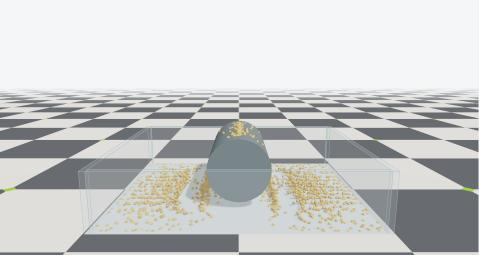
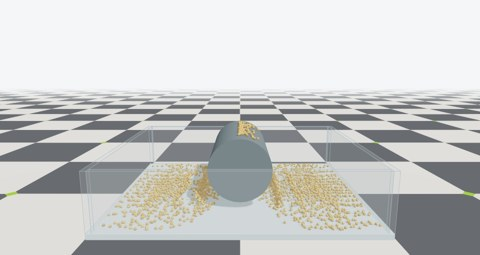
Update interactive demos and simplify publishing (#8559)
## Description

Update the gallery to 17 demos with activity/physics filters, pretrained
VBD manipulation, Franka Policy/Manual control, corrected stacking
contacts, and finer MPM grains. Add contextual documentation links and
refreshed thumbnails.

Serve the demos at `/demos/interactive/`. Reuse one [official
release](https://github.com/isaac-sim/IsaacLab/releases/tag/interactive-demos)
and [publishing
branch](https://github.com/maxkra15/IsaacLab/tree/interactive-releases);
each docs update pins a commit-named archive and checksum. Newton CPU
WebAssembly advances physics, Three.js renders it, and the browser
evaluates pretrained policy weights. Generated bundles stay outside
`develop`.

## Play the demos

[Gallery
preview](https://maxkra15.github.io/isaaclab-browser-demos/lab/?v=grains-v1)

- **Tuning:**
[Stiffness](https://maxkra15.github.io/isaaclab-browser-demos/lab/?demo=stiffness&v=grains-v1)
· [Cloth
bending](https://maxkra15.github.io/isaaclab-browser-demos/lab/?demo=cloth_bending&v=grains-v1)
·
[Friction](https://maxkra15.github.io/isaaclab-browser-demos/lab/?demo=rigid_friction&v=grains-v1)
·
[PD](https://maxkra15.github.io/isaaclab-browser-demos/lab/?demo=joint_pd&v=grains-v1)
·
[MPM](https://maxkra15.github.io/isaaclab-browser-demos/lab/?demo=mpm&v=grains-v1)
·
[Cable](https://maxkra15.github.io/isaaclab-browser-demos/lab/?demo=cable_bending&v=grains-v1)
·
[Dominoes](https://maxkra15.github.io/isaaclab-browser-demos/lab/?demo=dominoes&v=grains-v1)
[…]

diff --git a/docs/source/setup/interactive_demos.rst b/docs/source/setup/interactive_demos.rst
@@ -13,20 +13,21 @@ one self-contained Newton simulation with camera controls, pause, and reset.
 The simulation runs locally on the CPU through WebAssembly; no Isaac Lab
 installation or remote simulation server is needed.
 
-Open the `hosted gallery <../../../demos/v3/>`_ to browse all demos.
+Open the `hosted gallery <../../../demos/interactive/>`_ to filter all 17 demos by
+activity and physics: rigid bodies, VBD, or MPM.
 
 These compact scenes illustrate individual effects. Use the full Isaac Lab
 examples and tasks for evaluation, training, and measured comparisons.
 
-Solver and actuator tuning
---------------------------
+Tuning
+------
 
 .. grid:: 1 2 3 3
    :gutter: 3
 
    .. grid-item-card:: VBD material stiffness
       :img-top: ../_static/browser_demos/previews/stiffness.jpg
-      :link: ../../../demos/v1/?demo=stiffness
+      :link: ../../../demos/interactive/?demo=stiffness
 
       .. _interactive-demo-stiffness:
 
@@ -35,7 +36,7 @@ Solver and actuator tuning
 
    .. grid-item-card:: VBD cloth bending
       :img-top: ../_static/browser_demos/previews/cloth_bending.jpg
-      :link: ../../../demos/v1/?demo=cloth_bending
+      :link: ../../../demos/interactive/?demo=cloth_bending
 
       .. _interactive-demo-cloth-bending:
 
@@ -44,7 +45,7 @@ Solver and actuator tuning
 
    .. grid-item-card:: MJWarp sliding friction
       :img-top: ../_static/browser_demos/previews/rigid_friction.jpg
-      :link: ../../../demos/v1/?demo=rigid_friction
+      :link: ../../../demos/interactive/?demo=rigid_friction
 
       .. _interactive-demo-rigid-friction:
 
@@ -53,7 +54,7 @@ Solver and actuator tuning
 
    .. grid-item-card:: Joint PD tuning
       :img-top: ../_static/browser_demos/previews/joint_pd.jpg
-      :link: ../../../demos/v1/?demo=joint_pd
+      :link: ../../../demos/interactive/?demo=joint_pd
 
       .. _interactive-demo-joint-pd:
 
@@ -62,27 +63,49 @@ Solver and actuator tuning
 
    .. grid-item-card:: MPM material response
       :img-top: ../_static/browser_demos/previews/mpm.jpg
-      :link: ../../../demos/v1/?demo=mpm
+      :link: ../../../demos/interactive/?demo=mpm
 
       .. _interactive-demo-mpm:
 
-      Drop 1,728 particles onto a cylinder inside a catch tub. Try sand,
+      Drop 2,744 fine particles onto a cylinder inside a catch tub. Try sand,
       snow, clay, and water references, or tune individual parameters.
 
+   .. grid-item-card:: VBD cable bending
+      :img-top: ../_static/browser_demos/previews/cable_bending.jpg
+      :link: ../../../demos/interactive/?demo=cable_bending
+
+      .. _interactive-demo-cable-bending:
+
+      Bend a clamped 0.45 m, ten-segment cable. Adjust bending stiffness
+      and downward tip load, then reset to compare the response.
+
+   .. grid-item-card:: Domino cascade
+      :img-top: ../_static/browser_demos/previews/dominoes.jpg
+      :link: ../../../demos/interactive/?demo=dominoes
+
+      .. _interactive-demo-dominoes:
+
+      Topple 24 slabs with a short push. Change friction and replay the
+      cascade using Newton XPBD and the Isaac Lab checker ground.
+
 For the corresponding native settings, see :ref:`newton-using-vbd`,
-:ref:`mjwarp-solver-tuning`, :ref:`newton-tuning-mpm`, and :ref:`overview-actuators`.
+:ref:`mjwarp-solver-tuning`, :ref:`newton-tuning-mpm`, :ref:`overview-actuators`,
+and :ref:`deformables`.
 The MPM presets are qualitative references on a coarse grid, rather than
 calibrated materials. Material changes apply on reset with fresh plastic history.
 
-Policy control
---------------
+The cable and domino scenes isolate small comparisons from the native examples;
+use the full examples for larger scenes and measured comparisons.
+
+Policy inference
+----------------
 
 .. grid:: 1 2 3 3
    :gutter: 3
 
    .. grid-item-card:: Cartpole balancing
       :img-top: ../_static/browser_demos/previews/cartpole.jpg
-      :link: ../../../demos/v1/?demo=cartpole
+      :link: ../../../demos/interactive/?demo=cartpole
 
       .. _interactive-demo-cartpole:
 
@@ -91,7 +114,7 @@ Policy control
 
    .. grid-item-card:: G1 velocity control
       :img-top: ../_static/browser_demos/previews/g1.jpg
-      :link: ../../../demos/v3/?demo=g1
+      :link: ../../../demos/interactive/?demo=g1
 
       .. _interactive-demo-g1:
 
@@ -100,7 +123,7 @@ Policy control
 
    .. grid-item-card:: ANYmal-D velocity control
       :img-top: ../_static/browser_demos/previews/anymal.jpg
-      :link: ../../../demos/v3/?demo=anymal
+      :link: ../../../demos/interactive/?demo=anymal
 
       .. _interactive-demo-anymal:
 
@@ -109,32 +132,16 @@ Policy control
 
    .. grid-item-card:: MicroDuck walking
       :img-top: ../_static/browser_demos/previews/microduck.jpg
-      :link: ../../../demos/v3/?demo=microduck
+      :link: ../../../demos/interactive/?demo=microduck
 
       .. _interactive-demo-microduck:
 
-      Hold the viewport joysticks to walk through a miniature courtyard.
-      Drag the robot to apply a 2 N push; release to let the policy recover.
-
-Cartpole uses the published ``Isaac-Cartpole-Direct`` Newton policy. G1 uses
-the external 29-joint WBC-AGILE ``Velocity-G1-v0`` policy. ANYmal-D uses the
-``Isaac-Velocity-Flat-AnymalD`` RSL-RL checkpoint with a tuned PD drive in
-place of the native task's LSTM actuator. Its motion can differ from a full
-task run. MicroDuck uses Pollen Robotics' published v5 ``velstand`` policy
-and native BAM servos from `task PR #8270 <https://github.com/isaac-sim/IsaacLab/pull/8270>`_.
-Its courtyard is decorative scenery over flat ground; playback uses one
-captured reset with selected observation randomization disabled.
-See :ref:`reinforcement-learning` for native playback and training.
-
-Manipulation
-------------
-
-.. grid:: 1 2 3 3
-   :gutter: 3
+      Walk in a bounded warehouse. Drag sticks to their edges to lock commands;
+      pull back or press Escape to stop. Drag the robot for a 2 N push.
 
    .. grid-item-card:: Franka reach
       :img-top: ../_static/browser_demos/previews/franka_reach.jpg
-      :link: ../../../demos/v1/?demo=franka_reach
+      :link: ../../../demos/interactive/?demo=franka_reach
 
       .. _interactive-demo-franka-reach:
 
@@ -143,7 +150,7 @@ Manipulation
 
    .. grid-item-card:: Franka lift
       :img-top: ../_static/browser_demos/previews/franka_lift.jpg
-      :link: ../../../demos/v1/?demo=franka_lift
+      :link: ../../../demos/interactive/?demo=franka_lift
 
       .. _interactive-demo-franka-lift:
 
@@ -152,33 +159,97 @@ Manipulation
 
    .. grid-item-card:: Franka drawer opening
       :img-top: ../_static/browser_demos/previews/franka_drawer.jpg
-      :link: ../../../demos/v1/?demo=franka_drawer
+      :link: ../../../demos/interactive/?demo=franka_drawer
 
       .. _interactive-demo-franka-drawer:
 
       Play, pause, and reset a pretrained drawer-opening policy.
       Orbit the camera to inspect the grasp and drawer motion.
 
-These three demos use published Newton RSL-RL checkpoints for ``Isaac-Reach-Franka``
-(``joint_pos``), ``Isaac-Lift-Franka`` (``cube``), and ``Isaac-Open-Drawer-Franka``.
-Playback repeats one captured reset every eight seconds; Python episode and
-reset managers are not exported. Browse their full task options in
-:ref:`environment-browser`.
+   .. grid-item-card:: Franka soft-body policy
+      :img-top: ../_static/browser_demos/previews/franka_soft.jpg
+      :link: ../../../demos/interactive/?demo=franka_soft
+
+      .. _interactive-demo-franka-soft:
+
+      Lift a flexible beam with a pretrained VBD policy. Change its target
+      height or stiffness, or pull the beam to test recovery.
+
+   .. grid-item-card:: Franka cloth policy
+      :img-top: ../_static/browser_demos/previews/franka_cloth.jpg
+      :link: ../../../demos/interactive/?demo=franka_cloth
+
+      .. _interactive-demo-franka-cloth:
+
+      Watch a pretrained VBD policy grasp a cloth sheet through contact.
+      Adjust bending stiffness or target height, or pull the cloth.
+
+Cartpole uses the published ``Isaac-Cartpole-Direct`` Newton policy. G1 uses
+the external WBC-AGILE ``Velocity-G1-v0`` policy. ANYmal-D uses the
+``Isaac-Velocity-Flat-AnymalD`` RSL-RL checkpoint with a tuned PD drive in
+place of the native task's LSTM actuator, so its motion can differ from a full task run.
+
+MicroDuck uses Pollen Robotics' published v5 ``velstand`` policy and native BAM servos
+from `task PR #8270 <https://github.com/isaac-sim/IsaacLab/pull/8270>`_. Its warehouse
+adds 12 movable props with nominal mass and inertia; other fixtures remain fixed.
+Turning from rest includes a visible 0.25 m/s forward command. Playback uses one
+captured reset with selected observation randomization disabled.
+
+The five Franka policies use published Newton RSL-RL checkpoints for
+``Isaac-Reach-Franka`` (``joint_pos``), ``Isaac-Lift-Franka`` (``cube``),
+``Isaac-Open-Drawer-Franka``, ``Isaac-Lift-Soft-Franka``, and ``Isaac-Lift-Cloth-Franka``.
+The VBD scenes use compact simulation meshes; changing their material tests policy
+generalization. Drawer opening retains the captured task's legacy absolute-action
+controller and clears its initial overlap through a short simulated retreat;
+the current task uses a different EMA controller.
+
+Franka policy playback repeats one captured reset every eight seconds for reach,
+lift, and drawer opening, or five seconds for soft-body and cloth lifting.
+Python episode and reset managers are not exported. See :ref:`reinforcement-learning`
+and :ref:`environment-browser` for native playback, training, and full task options.
+
+Scripted scenes
+---------------
+
+.. grid:: 1 2 3 3
+   :gutter: 3
+
+   .. grid-item-card:: Franka cube stacking
+      :img-top: ../_static/browser_demos/previews/franka_stack.jpg
+      :link: ../../../demos/interactive/?demo=franka_stack
+
+      .. _interactive-demo-franka-stack:
+
+      Stack two 50 mm cubes with a scripted IK controller and simulated
+      gripper contacts, or take over the arm in Manual mode.
+
+Manual Franka control
+---------------------
+
+All six Franka demos offer **Manual** alongside **Policy** or **Scripted**.
+Click the viewport, then use **WASD / arrow keys** to move relative to the camera,
+**R/F** for height, **Q/E** for yaw, and **G** for the gripper where available.
+Hold **Shift** for finer movement; **Escape** stops. Touch screens show a movement pad.
+Inverse kinematics supplies actuator targets; the same simulation handles contacts.
+
+Reset keeps the selected mode. Returning to Policy hands over the current state;
+selecting Scripted restarts the stacking sequence. Manual mode continues until reset.
 
 About these demos
 -----------------
 
 The demos are published alongside Isaac Lab documentation on GitHub Pages. The site serves
-versioned simulation bundles, policies, geometry, and third-party license notices.
+simulation bundles, policies, geometry, and third-party license notices.
 Newton's captured Warp kernels advance the physics, Three.js displays the state,
 and a shared JavaScript evaluator runs the policy networks in the browser.
 The documentation gallery contains small thumbnails and links to these pages.
 
-The exporters and demo application are maintained separately from Isaac Lab.
-The docs deployment downloads a versioned archive from Isaac Lab GitHub releases
-and verifies its checksum before publishing; compiled assets are kept outside the source tree.
+The exporters and prebuilt demo application are distributed through Isaac Lab's
+`interactive-demos release <https://github.com/isaac-sim/IsaacLab/releases/tag/interactive-demos>`_.
+The docs deployment downloads a reviewed, commit-named archive and verifies its checksum
+before publishing. Compiled assets stay outside the development source tree.
 The public `reference PR #7974 <https://github.com/isaac-sim/IsaacLab/pull/7974>`_
-records the exporters, shared viewer, and scene adaptations.
+records the original implementation and scene adaptations.
 Rebuilding requires the pinned internal Newton Web compiler and Emscripten.
-The locomotion demos use the version 3 viewer with controls inside the viewport.
-Other demos retain version 1 links. Each archive preserves earlier version directories.
+The gallery uses a stable ``demos/interactive/`` URL. Earlier published version URLs
+remain available.

diff --git a/docs/source/refs/contributing.rst b/docs/source/refs/contributing.rst
@@ -138,11 +138,15 @@ For documentation media, only small ``.jpg`` files should be committed directly 
 Upload larger images, videos, animations, and other media to an external hosting location, then link to or embed
 the externally hosted file from the documentation.
 
-Browser-demo deployment bundles are hosted as Isaac Lab GitHub release assets. The docs workflow downloads
-the pinned archive, verifies its SHA-256, and stages it under ``docs/_build/demos/`` before publishing
-the Pages artifact. The source tree contains the staging script, documentation links, and small thumbnails.
-When publishing a new bundle, retain earlier version directories and update the archive URL and checksum
-together in ``.github/actions/_lib/stage-browser-demos.sh``. Run the staging step from the repository root:
+Browser-demo bundles and exporter sources are distributed through the permanent
+`interactive-demos release <https://github.com/isaac-sim/IsaacLab/releases/tag/interactive-demos>`_.
+Reuse the ``interactive-releases`` publishing branch and upload commit-named archives to that same release.
+Keep earlier assets, then update the reviewed archive URL and SHA-256 together in
+``.github/actions/_lib/stage-browser-demos.sh``. No new release tag or numbered gallery is needed.
+The docs workflow downloads that archive, verifies its checksum, and stages its ``site/`` directory
+under ``docs/_build/demos/`` before publishing Pages. Keep the existing legacy directories: they provide shared
+assets and preserve older links. The development source tree contains the staging script, documentation links,
+and small thumbnails. Run the staging step from the repository root:
 
 .. code-block:: bash
 
@@ -156,7 +160,7 @@ complete site locally, serve ``docs/_build`` over HTTP:
    uv run --no-project python -m http.server 8000 --directory docs/_build
 
 Open ``http://localhost:8000/current/index.html`` for the docs or
-``http://localhost:8000/demos/v3/`` for the demos. Downloaded ``docs-html`` artifacts include
+``http://localhost:8000/demos/interactive/`` for the demos. Downloaded ``docs-html`` artifacts include
 ``PREVIEW.txt`` with the equivalent command to run from the extracted artifact's root directory.
 The browser must load the demos over HTTP so it can fetch their WebAssembly modules and data.
 

diff --git a/docs/source/concepts/deformables.rst b/docs/source/concepts/deformables.rst
@@ -616,6 +616,14 @@ Run an example first to confirm that the spawner, solver, and visualizer all wor
     # A larger cable pile, stopping after a fixed number of steps.
     uv run isaaclab example cables --num_cables 40 --num_segments 15 --max_steps 500
 
+Try :ref:`VBD cable bending <interactive-demo-cable-bending>` for a compact browser lesson with one
+clamped VBD rod, live bending stiffness and a downward tip load. It illustrates
+transient response; use the native example for cable piles and measured comparisons.
+
+For learned manipulation, try the :ref:`soft-body <interactive-demo-franka-soft>` and
+:ref:`cloth <interactive-demo-franka-cloth>` browser policies. Tune their material,
+move the target, or switch to keyboard end-effector control in Manual mode.
+
 ``scripts/environments/state_machine/lift_franka_soft.py`` drives ``Isaac-Lift-Soft-Franka`` with a
 scripted state machine, which is a useful starting point for a deformable manipulation task.
 

diff --git a/docs/source/concepts/visualization.rst b/docs/source/concepts/visualization.rst
@@ -8,6 +8,10 @@ renderers produce sensor data for training, visualizers give fast, lightweight f
 human monitoring and recording. Visualizers can also stream that same sensor data through the
 streaming camera panel.
 
+Try :ref:`Franka cube stacking <interactive-demo-franka-stack>` for a compact simulation
+running directly in the browser. Orbit its camera, watch the scripted grasp, or control
+the end effector in Manual mode.
+
 This page covers:
 
 - `Quick Start`_: launch a visualizer with ``--viz``
@@ -208,6 +212,9 @@ Visualizer Overview
              triggers the cascade across an NVIDIA-logo domino layout</p>
            </div>
          </div>
+
+      Try :ref:`Domino cascade <interactive-demo-dominoes>` for a compact 24-slab version running
+      locally in the browser, with friction and a repeatable toppling pulse.
 
       **Core configuration:**
 
